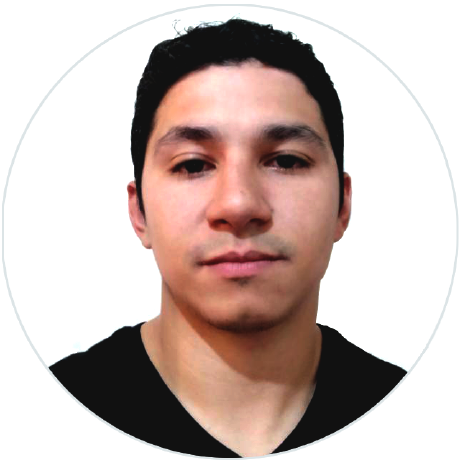
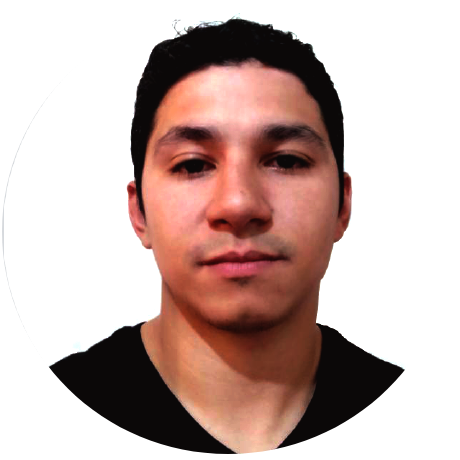
change theme color

diff --git a/pages/index.js b/pages/index.js
@@ -11,8 +11,13 @@ import {GoGist, GoStar} from 'react-icons/go'
 import PageHead from '../components/PageHead'
 import Hero from '../components/Hero'
 import { ToggleButton } from '../components/ToggleButton';
+import {RiArrowDownSLine} from 'react-icons/ri'
 
-
+const customStyles = {
+  content: {
+   background: "#000",
+  },
+}
 
 const Index = ({ repos, user }) => {
 
@@ -45,7 +50,7 @@ const Index = ({ repos, user }) => {
 
     //JSX
     return (
-        <div className="font-sans">
+        <div className="font-sans mx-auto">
             <PageHead />
             <Hero />
 
@@ -54,22 +59,21 @@ const Index = ({ repos, user }) => {
         onAfterOpen={afterOpenModal}
         onRequestClose={closeModal}
         contentLabel="Example Modal"
+       style={customStyles}
       >
         <h2 ref={(_subtitle) => (subtitle = _subtitle)}  className="text-center text-4xl font-extrabold">Repositórios</h2>
-        <div  className="overscroll-contain text-center md:mx-20">
+        <div  className="overscroll-contain text-center md:mx-20 bg-black">
         { show ? repos.map(repo => {
                         return (
-                            <div key={repo.id} className="overscroll-contain bg-gray-200 border px-5 my-3 mx-2 rounded-lg rounded-r-sm">
-                                <p className="break-all text-yellow"><RiCodeBoxFill className="inline-block"/><a href={'https://github.com/'+ repo.full_name}>{repo.full_name}</a> </p>
+                            <div key={repo.id} className="overscroll-contain bg-blue-900 border px-5 my-3 mx-2 rounded-lg rounded-r-sm">
+                                <p className="break-all font-extrabold"><RiCodeBoxFill className="inline-block mx-1"/><a href={'https://github.com/'+ repo.full_name}>{repo.full_name}</a> </p>
                                 {/* <p className="">Language: {repo.language} / <GoStar className="" /> Stars:{repo.stargazers_count}</p> */}
                                 <p className="">Language: {repo.language}</p>
                                 <p>Última atualização: {repo.updated_at}</p>
-                                <p></p>
-                        
                             </div>
                         )
                     }): ""}
-        <button className="text-center w-32 h-8 border-yellow border bg-red-400  rounded-2xl hover:bg-red-200" onClick={closeModal}>close</button>
+        <button className="text-center w-32 h-8 bg-blue-600  border-2 border-blue-600 rounded-full hover:bg-blue-500" onClick={closeModal}>close</button>
         </div>
         
         
@@ -77,13 +81,13 @@ const Index = ({ repos, user }) => {
 
          
             <div className="text-center">
-                <h3 className="text-center text-4xl font-extrabold border-b-2 border-yellow rounded-b-md mx-10 my-5 md:mx-64">Educação</h3>
+                <h3 className="text-center text-4xl font-extrabold bg-blue-600 border-2 border-blue-600 rounded-full  mx-10 my-5 md:mx-64">Educação</h3>
                 <p className="text-xl my-2 ext-left text-justify  mx-5 my-5 md:text-center"><RiDraftLine className="inline-block" /> Análise e Desenvolvimento de Sistemas</p>
                 <p className="text-xl my-2 ext-left text-justify  mx-5 my-5 md:text-center"><RiDraftLine className="inline-block" /> Ensino médio Técnico em Eletrônica</p>
             </div>
 
             <div className="text-center">
-                <h3 className="text-center text-4xl font-extrabold border-b-2 border-yellow rounded-b-md mx-10 my-5 md:mx-64">Conhecimentos</h3>
+                <h3 className="text-center text-4xl font-extrabold  bg-blue-600  border-2 border-blue-600 rounded-full  mx-10 my-5 md:mx-64">Conhecimentos</h3>
                 <p className="text-xl my-2 text-left text-justify mx-5 my-5 md:text-center"><RiBookOpenLine  className="inline-block"/> Conceitos básicos sobre Docker e utilização de containers para criação de APis e micro serviços</p>
                 <p className="text-xl my-2 text-left text-justify mx-5 my-5 md:text-center"><RiBookOpenLine  className="inline-block"/> Conceitos básicos sobre Kubernetes e gerenciamento de containers </p>
                 <p className="text-xl my-2 text-left text-justify mx-5 my-5 md:text-center"><RiBookOpenLine  className="inline-block"/> Criação de Apis utilizando Runtime NodeJS</p>
@@ -96,13 +100,17 @@ const Index = ({ repos, user }) => {
                
             </div>
 
-            <div onClick={openModal} className="text-center border-gray-400 border bg-gray-100 mx-10 rounded-2xl bg-opacity-50 hover:bg-gray-200 md:mx-64">
-            <div className="text-center flex-1">
-            <h3 className="text-center text-4xl font-extrabold border-b-2 border-yellow rounded-b-md mx-10 my-5">Github</h3>
-                <p className="text-center border-yellow border bg-red-400 mx-5 my-5 rounded-2xl">Github stats: <RiGitRepositoryLine  className="inline-block" /> {user.public_repos} / <GoGist  className="inline-block"/> {user.public_gist} / <FiUsers  className="inline-block"/> {user.followers} </p>
+ 
+            <div onClick={openModal} className="mx-10  bg-opacity-50  md:mx-64 bg-footer-texture flex">
+            <div className="flex flex-col  text-center flex-1">
+            <h3 className="text-center text-4xl font-extrabold bg-blue-600 border-2 border-blue-600 rounded-full mx-10 my-5">Github</h3>
+                <div className="flex flex-col  self-center bg-blue-300 border bg-blue-600 mx-5 my-5 p-2 rounded-2xl hover:bg-blue-500 lg:w-1/2">
+                  <p>Github stats: 
+                <RiGitRepositoryLine  className="inline-block" /> {user.public_repos} / <GoGist  className="inline-block"/> {user.public_gist} / <FiUsers  className="inline-block"/> {user.followers} 
+                </p>
+                <RiArrowDownSLine className="self-center text-2xl"/>
+                </div>
             </div>
-
-      
             </div>
 
             <div className="flex-2 justify-center text-center py-1 px-1">

diff --git a/components/Hero/index.js b/components/Hero/index.js
@@ -1,38 +1,81 @@
 import React, { useState } from "react";
 
 import {FiLink} from 'react-icons/fi'
+import {RiMailLine}from 'react-icons/ri'
 import { FaLinkedin, FaGithub, FaYoutube} from 'react-icons/fa'
 import { ToggleButton } from '../ToggleButton'
+import Image from 'next-images'
 
 const Hero=()=>{
     const [selected, setSelected] = useState(false);
-    return(
-      
-        <div className="pt-32 md:grid md:grid-cols-2 md:pt-16 md:mx-24 leading-none">
+    const[underline, setUnderline] = useState("_");
+    const sendMail = e=>{
+        console.log('enviando email ')
+    }
 
-                <div className="pt-16 md:pt-32">
-         
-                    <h1 className="text-4xl uppercase pl-10">Olá, eu sou o Crystyan Santos</h1>
-                    <h2 className="text-4xl font-bold md:text-5xl uppercase pl-16">Full Stack Developer</h2>
-                    <div className="mx-8 px-8 relative border-yellow border-2 rounded md:mx-0 md:px-16 pb-4 pt-10 mt-6">
-                    <h3 className="text-white absolute bg-yellow py-2 px-6 top-0 -mt-5 text-2xl font-bold uppercase">Contato</h3>
-                       <p className="text-center md:text-left">
-                           <FaLinkedin className="text-5xl md:text-6xl inline-block md:mr-6" />
-                           <FaGithub className="text-5xl md:text-6xl inline-block md:mr-6" />
-                           <FaYoutube className="text-5xl md:text-6xl inline-block md:mr-6" />
-                           <FiLink className="text-5xl md:text-6xl inline-block" />
-                        <br />
-                        <span className="font-bold inline-block mt-4 shadow-inner">Ou deixe uma mensagem: cryssantos9@gmail.com</span>
-                       </p>
-                    </div>
-           
-                    
+    const underlineShowNotShow = (underline) =>{
+   console.log(underline)
+   setTimeout(()=>{
+            if(underline){
+                setUnderline(false)
+            }else{
+                setUnderline('_')
+            }
+        },1200)
+    }
+
+    underlineShowNotShow(underline);
+
+    
+    return(
+
+        <div class="sm:bg-blue-100 md:bg-green-300 lg:bg-red-600 xl:bg-yellow-700 lg:flex lg:flex-row lg:justify-between"
+        style={{
+            backgroundImage: "url('/images/cedric-frixon-QiJp6dWw1oE-unsplash.jpg')",
+            width: "100%",
+            backgroundRepeat: "no-repeat",
+            backgroundSize: "cover"
+        }}
+        >
+
+   
+
+                <div className="pt-16 md:pt-32  lg:w-3/6 lg:p-10 ">
+                    <h1 className="text-4xl uppercase pl-16 lg:text-4xl">Olá, eu sou o Crystyan Santos</h1>
+                    <h2 className="text-3xl font-bold uppercase pl-16 lg:text-4xl lg:pb-10">Javascript dev<span className="text-4xl font-bold uppercase">{underline}</span></h2>
+                    <div className="mx-8 px-8 relative border-blue-600 border-2 rounded md:mx-10  md:px-16 pb-4 pt-10 mt-6 lg:p-16">
+                    <h3 className="text-white absolute bg-blue-600 py-2 px-6 top-0 -mt-5 text-2xl font-bold uppercase lg:text-4xl lg:-mt-5">Contato</h3>
+                       <div className="flex  justify-between flex-wrap">
+                           <div>
+                           <FaLinkedin className="text-5xl sm:text-5xl md:text-5xl" />
+                           </div>
+                           <div>
+                           <FaGithub className="text-5xl sm:text-5xl md:text-5xl"/>
+                           </div>
+                         <div>
+                         <FaYoutube  className="text-5xl sm:text-5xl md:text-5xl"/>
+                         </div>
+                         
+                         <div>
+                         <RiMailLine className="text-5xl sm:text-5xl md:text-5xl" onClick={sendMail}/>
+                         </div>
+
+                       </div>
+                    </div>   
                 </div>
 
-                <div className="my-5  mb-0 sm:pt-48 mx-8 px-8 md:mx-auto"><img src="/images/avatar3.png" /></div>
 
+                <div className="flex flex-row content-center justify-center lg:w-3/6 lg:p-32 lg:pl-24">
+                   
+                    <img  className="w-48 lg:w-48 lg:h-48"src="/images/avatar.png" />
                
+       
+        </div>
+
+{/* fim */}
             </div>
+
+            
     )
 }
 

diff --git a/tailwind.config.js b/tailwind.config.js
@@ -8,7 +8,7 @@ module.exports = {
             colors:{
                 orange: '#F05E7B',
                 yellow: '#FF9556',
-                gold: '#C5B503'
+                gold: '#C5B503',
             }
         },
         boxShadow: {
@@ -20,7 +20,7 @@ module.exports = {
             xl: '0 20px 25px -5px rgba(0, 0, 0, 0.1), 0 10px 10px -5px rgba(0, 0, 0, 0.04)',
             '2xl': '0 25px 50px -12px rgba(0, 0, 0, 0.25)',
            '3xl': '0 35px 60px -15px rgba(0, 0, 0, 0.3)',
-            inner: 'inset 0 2px 4px 0 rgba(0, 0, 0, 0.06)',
+            inner: 'inset 2px 4px 4px 0 rgba(39, 39, 217, 0.8)',
            outline: '0 0 0 3px rgba(66, 153, 225, 0.5)',
            focus: '0 0 0 3px rgba(66, 153, 225, 0.5)',
             none: 'none',

diff --git a/css/styles.css b/css/styles.css
@@ -16,6 +16,13 @@
 } */ 
 
 body{
-    background-color: rgba(255, 255, 255, 0.5);
+    background-color: rgba(0, 0, 0, 1);
+    color:rgb(255, 255, 255);
+    /* background: url("/images/bg-galaxy.jpg");
+    background-size: cover;
+    background-size:100% 50%;
+    background-repeat: no-repeat;
+    background-position: bottom; */
+   
 }
 
